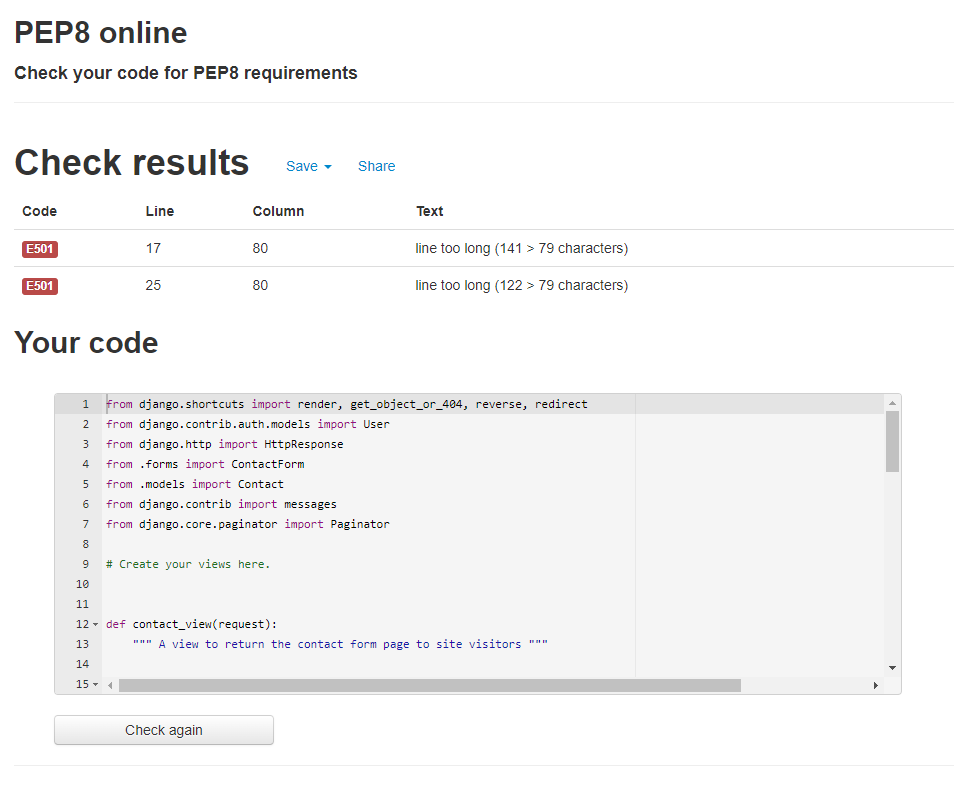
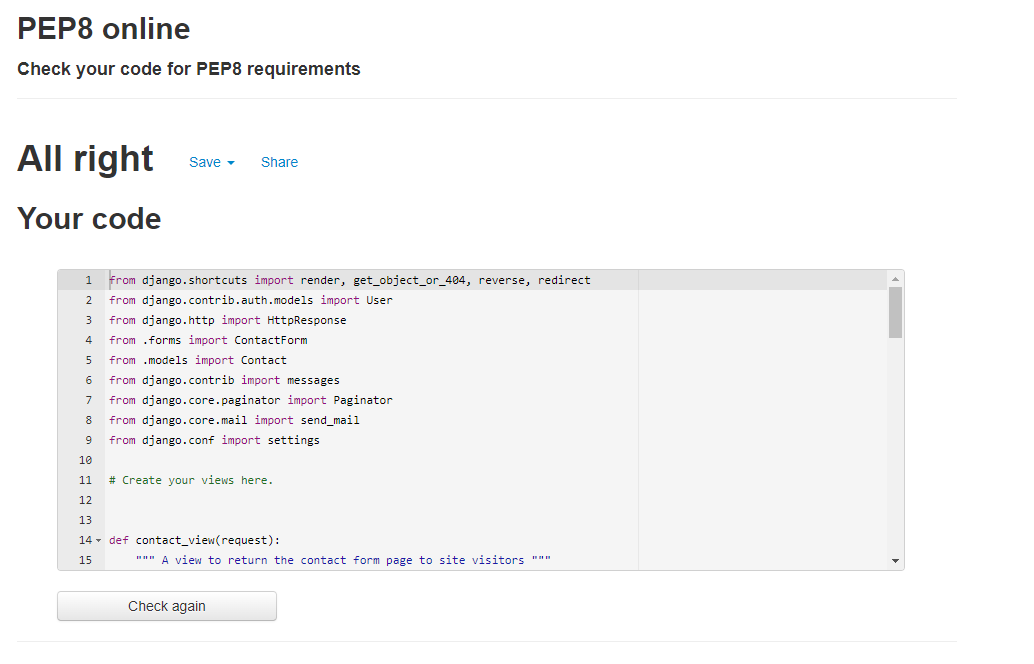
Add contact app updated PEP8 screenshots

diff --git a/TESTING.md b/TESTING.md
@@ -239,10 +239,10 @@ No. |Python File | PEP8 Status | Screenshot
 ------------- |------------- | ------------- | ------------ 
 1 | [admin.py](contact/admin.py) | No Issues | ![link](readme/testing/pep8/contact-admin.png)
 2 | [apps.py](contact/apps.py) | No Issues | ![link](readme/testing/pep8/contact-apps.png)
-3 | [forms.py](contact/forms.py) | Line Length too long x1 | ![link](readme/testing/pep8/contact-forms.png)
+3 | [forms.py](contact/forms.py) | No Issues | ![link](readme/testing/pep8/contact-forms.png)
 4 | [models.py](contact/models.py) | No Issues | ![link](readme/testing/pep8/contact-models.png)
-5 | [urls.py](contact/urls.py) | Line Length too long x1 | ![link](readme/testing/pep8/contact-urls.png)
-6 | [views.py](contact/views.py) | Line Length too long x2 | ![link](readme/testing/pep8/contact-views.png)
+5 | [urls.py](contact/urls.py) | No Issues | ![link](readme/testing/pep8/contact-urls.png)
+6 | [views.py](contact/views.py) | No Issues | ![link](readme/testing/pep8/contact-views.png)
 
 #### **(d) Discussion Forum Application:**
 
